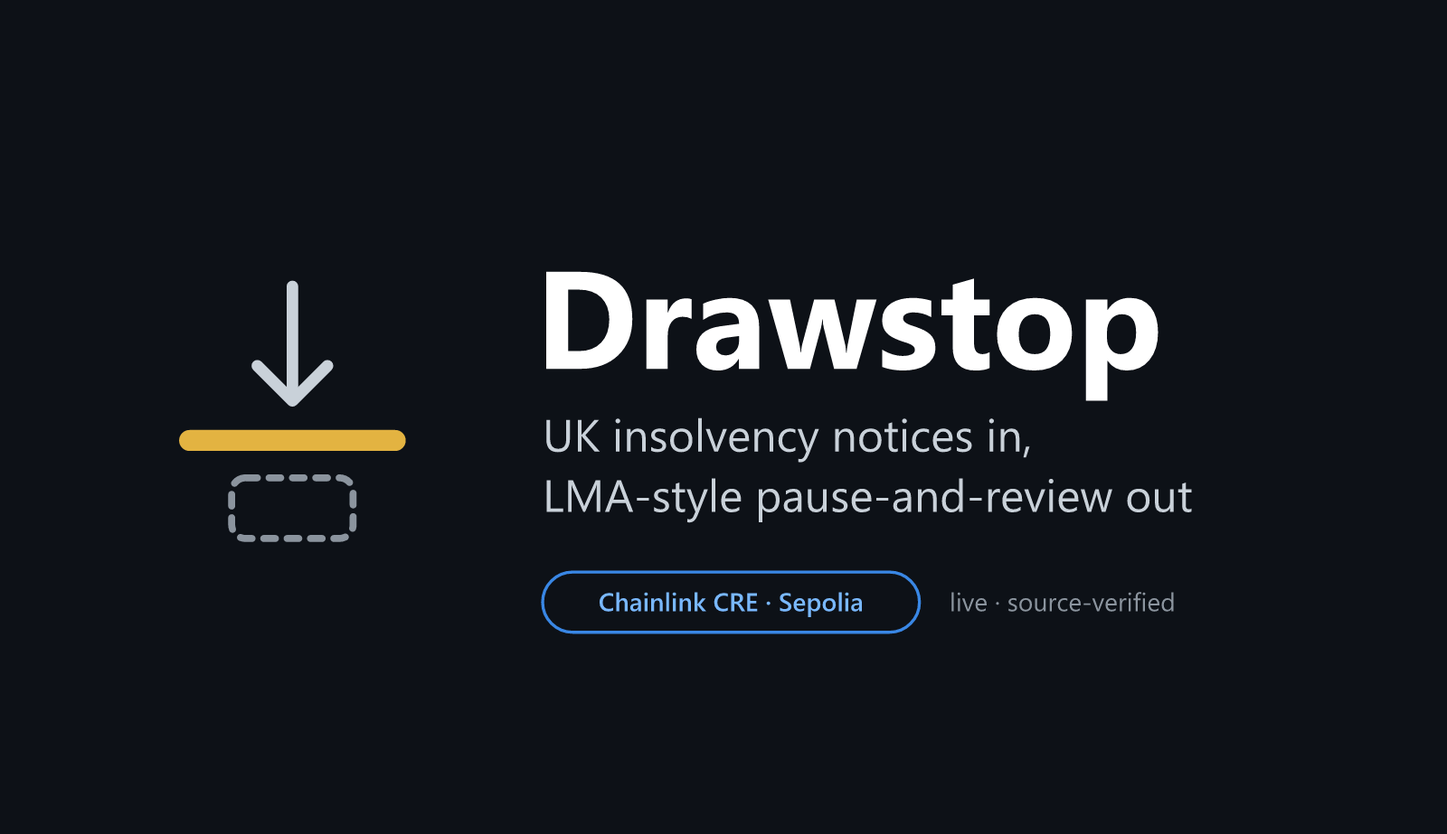
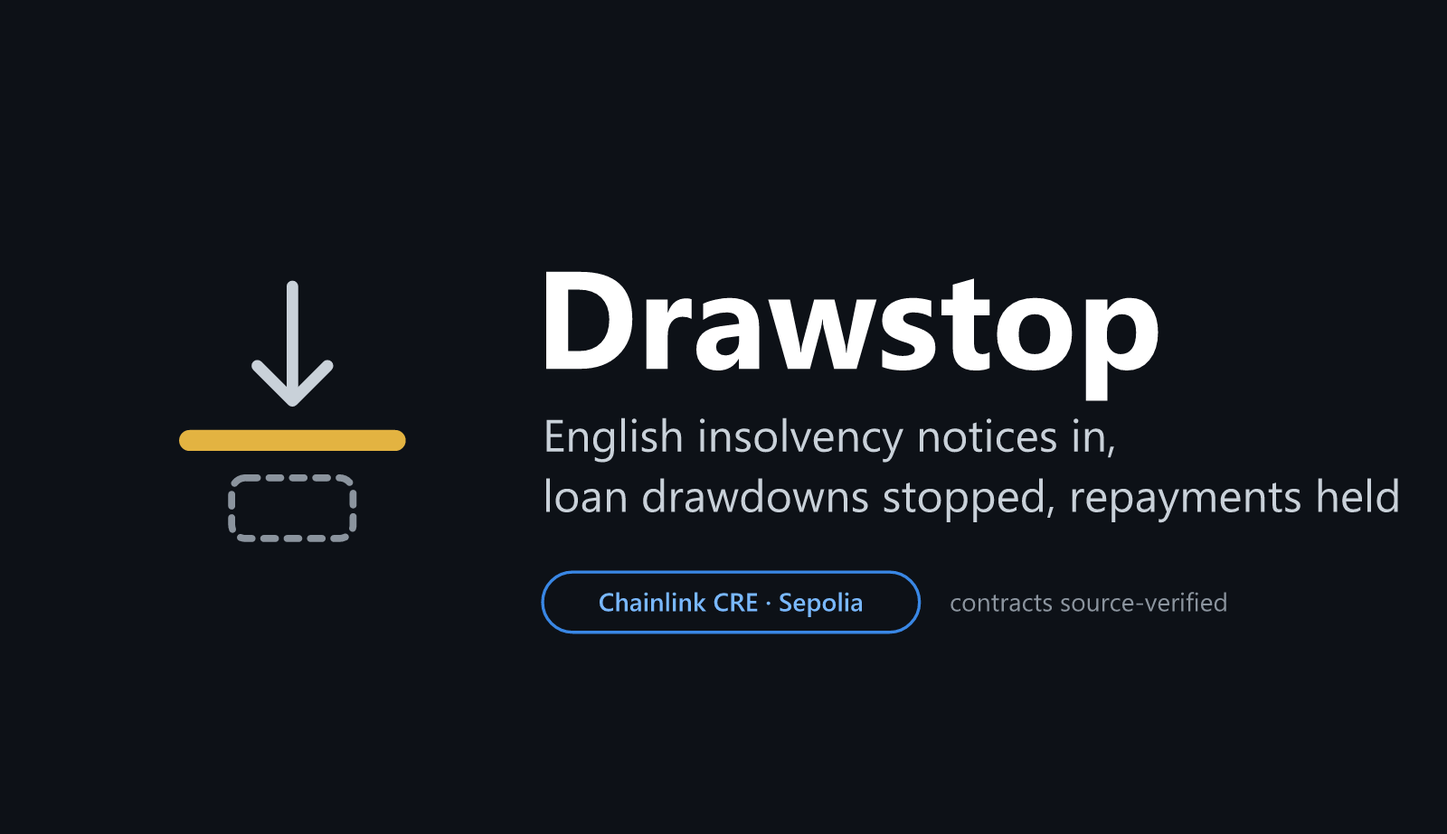
DoraHacks draft: apply two outside reviews (legal accuracy, honest demo labelling)
- s.127 makes dispositions void (not voidable), and only if an order follows
- England and Wales, not UK; 14-day carve-out leads, 30 days as borrower-friendly
- acceleration, not "default", is the human decision; bank freezing is practice
- 8,000 stated as "at least", with the untested trust-wording assumption
- demo labelled fictional borrower, local mirror, compressed time; live-source
  AMS attestation and a live-source simulate command linked
- CRE story first, four terms glossed, Arbiter defined, padding removed

Changed region(s): [[0.375, 0.5764, 0.9688, 0.6371], [0.375, 0.4854, 0.7812, 0.546], [0.6562, 0.6977, 0.8438, 0.7584]]

diff --git a/docs/dorahacks/figures.ts b/docs/dorahacks/figures.ts
@@ -67,10 +67,10 @@ const frame = (w: number, h: number) => `<rect x="1" y="1" width="${w - 2}" heig
 	const y = (c: number) => py + ph - (c / yMax) * ph
 	const bw = (BIN / maxDay) * pw
 	let body = frame(W, H)
-	body += text(40, 50, 'Most winding-up petitions become public after a typical carve-out has closed', { size: 22, weight: 600 })
+	body += text(40, 50, `${pct(14).toFixed(0)}% of winding-up petitions became public only after a 14-day carve-out had closed`, { size: 22, weight: 600 })
 	body += text(40, 78, `Days from presentation (s.127 exposure starts) to advertisement in The Gazette · ${n.toLocaleString('en')} petitions advertised Jul–Sep 2026`, { size: 14, fill: C.ink2 })
 	// shaded "carve-out already closed" zones
-	body += `<rect x="${x(30)}" y="${py}" width="${x(maxDay) - x(30)}" height="${ph}" fill="${C.redBg}" opacity="0.55"/>`
+	body += `<rect x="${x(14)}" y="${py}" width="${x(maxDay) - x(14)}" height="${ph}" fill="${C.redBg}" opacity="0.55"/>`
 	// grid + y axis
 	for (const t of [0, 100, 200, 300, 400, 500]) {
 		body += `<line x1="${px}" y1="${y(t)}" x2="${px + pw}" y2="${y(t)}" stroke="#eaeef2" stroke-width="1"/>`
@@ -97,12 +97,12 @@ const frame = (w: number, h: number) => `<rect x="1" y="1" width="${w - 2}" heig
 		s += text(x(47), yLabel + 18, sub, { size: 13, fill: C.ink2 })
 		return s
 	}
-	body += ref(14, `14-day carve-out: ${pct(14).toFixed(0)}%`, 'of petitions public only after it closed', C.amber, py + 24)
-	body += ref(30, `30-day carve-out: ${pct(30).toFixed(0)}%`, 'of petitions public only after it closed', C.red, py + 70)
+	body += ref(14, `14-day carve-out (LMA default): ${pct(14).toFixed(0)}%`, 'of petitions public only after it closed', C.amber, py + 24)
+	body += ref(30, `30-day (borrower-friendly): ${pct(30).toFixed(0)}%`, 'public only after it closed', C.red, py + 70)
 	body += `<line x1="${x(median)}" y1="${py + ph}" x2="${x(median)}" y2="${py + ph + 6}" stroke="${C.ink}" stroke-width="2"/>`
 	body += text(x(47), py + 128, `median ${median.toFixed(0)} days`, { size: 14, weight: 600, fill: C.ink })
 	body += text(x(47), py + 146, '(middle half 31–41 days)', { size: 13, fill: C.ink2 })
-	body += text(40, H - 24, 'Source: The Gazette linked data (OGL), Drawstop petition-lag study, research/petition-lag · carve-outs counted from presentation, as in LMA-style agreements', { size: 11.5, fill: C.muted })
+	body += text(40, H - 24, 'Source: The Gazette linked data (OGL), research/petition-lag · carve-outs counted from presentation · mostly England & Wales, some Scottish notices', { size: 11.5, fill: C.muted })
 	writeFileSync(join(OUT, 'gap.svg'), svg(W, H, `Histogram of ${n} petitions: median ${median.toFixed(0)} days from presentation to advertisement; ${pct(14).toFixed(0)}% after a 14-day and ${pct(30).toFixed(0)}% after a 30-day carve-out`, body))
 	console.log(`gap: n=${n} median=${median.toFixed(1)} >14=${pct(14).toFixed(1)} >30=${pct(30).toFixed(1)}`)
 }
@@ -115,12 +115,12 @@ const frame = (w: number, h: number) => `<rect x="1" y="1" width="${w - 2}" heig
 	let body = `<rect width="${W}" height="${H}" fill="${C.dark}"/>`
 	body += `<g transform="translate(70,150) scale(1.55)">${logo}</g>`
 	body += text(355, 245, 'Drawstop', { size: 92, weight: 700, fill: '#ffffff' })
-	body += text(360, 300, 'UK insolvency notices in,', { size: 30, fill: '#c9d1d9' })
-	body += text(360, 340, 'LMA-style pause-and-review out', { size: 30, fill: '#c9d1d9' })
+	body += text(360, 300, 'English insolvency notices in,', { size: 30, fill: '#c9d1d9' })
+	body += text(360, 340, 'loan drawdowns stopped, repayments held', { size: 30, fill: '#c9d1d9' })
 	body += `<rect x="360" y="380" width="250" height="40" rx="20" fill="none" stroke="#3987e5" stroke-width="2"/>`
 	body += text(485, 406, 'Chainlink CRE · Sepolia', { size: 17, weight: 600, fill: '#79b8ff', anchor: 'middle' })
-	body += text(630, 406, 'live · source-verified', { size: 17, fill: '#8b949e' })
-	writeFileSync(join(OUT, 'cover.svg'), svg(W, H, 'Drawstop: UK insolvency notices in, LMA-style pause-and-review out. Chainlink CRE on Sepolia.', body))
+	body += text(630, 406, 'contracts source-verified', { size: 17, fill: '#8b949e' })
+	writeFileSync(join(OUT, 'cover.svg'), svg(W, H, 'Drawstop: English insolvency notices in, loan drawdowns stopped and repayments held. Chainlink CRE on Sepolia.', body))
 }
 
 // ── 3. What the contract did on Sepolia: two acts ───────────────────────────────────────
@@ -136,7 +136,7 @@ const frame = (w: number, h: number) => `<rect x="1" y="1" width="${w - 2}" heig
 		{ step: '7', event: 'Borrower repays 3,000; the record still looks clean', status: 'NORMAL', tone: 'ok', money: '3,000 → lender' },
 		{ step: '8', event: 'Winding-up order; its petition was presented 12 days earlier', status: 'REVIEW_REQUIRED', tone: 'bad', money: '3,000 flagged, not stopped' },
 		{ step: '9', event: 'Borrower repays 2,000 after the order', status: 'REVIEW_REQUIRED', tone: 'bad', money: '2,000 held in suspense' },
-		{ step: '10', event: 'Arbiter nominates the Official Receiver; an early transfer reverts', status: 'REVIEW_REQUIRED', tone: 'bad', money: 'effective after 2 days' },
+		{ step: '10', event: 'Arbiter (neutral reviewer) names the Official Receiver; early transfer reverts', status: 'REVIEW_REQUIRED', tone: 'bad', money: 'effective after 2 days' },
 		{ step: '11', event: 'After the delay, suspense goes back to the estate (scheduled 19 Oct)', status: 'REVIEW_REQUIRED', tone: 'bad', money: '2,000 → Official Receiver' },
 	]
 	const W = 1000
@@ -144,7 +144,7 @@ const frame = (w: number, h: number) => `<rect x="1" y="1" width="${w - 2}" heig
 	const tone = { ok: [C.green, C.greenBg, '✓'], warn: [C.amber, C.amberBg, '!'], bad: [C.red, C.redBg, '■'] } as const
 	let body = frame(W, H)
 	body += text(40, 50, 'What the loan contract did on Sepolia', { size: 22, weight: 600 })
-	body += text(40, 76, 'Fictional borrower DM000001 · 30-day carve-out from presentation · every check is a Chainlink CRE workflow run', { size: 14, fill: C.ink2 })
+	body += text(40, 76, 'Fictional borrower DM000001 via a local Gazette mirror · compressed time · 30-day carve-out · every check a CRE run', { size: 14, fill: C.ink2 })
 	const cols = { step: 52, event: 110, status: 590, money: 770 }
 	let yy = 112
 	const header = (label: string) => {
@@ -170,8 +170,8 @@ const frame = (w: number, h: number) => `<rect x="1" y="1" width="${w - 2}" heig
 	for (const r of act2) body += row(r)
 	yy += 6
 	body += `<rect x="40" y="${yy}" width="${W - 80}" height="56" rx="8" fill="${C.amberBg}" stroke="#d4a72c" stroke-width="1.5"/>`
-	body += text(56, yy + 23, 's.127 statement rebuilt from on-chain events: 8,000 reached the lender after presentation, not 3,000.', { size: 14, weight: 600 })
-	body += text(56, yy + 43, "The 5,000 released after act 1's dismissal landed after act 2's petition was presented. A dismissal clears only its own petition.", { size: 13, fill: C.ink2 })
+	body += text(56, yy + 23, 's.127 statement rebuilt from on-chain events: at least 8,000 reached the lender after presentation, not 3,000.', { size: 14, weight: 600 })
+	body += text(56, yy + 43, "The 5,000 released after act 1's dismissal came after act 2's petition. Facts for a court; whether it is void is the court's call.", { size: 13, fill: C.ink2 })
 	writeFileSync(join(OUT, 'demo.svg'), svg(W, H, 'Loan contract on Sepolia: drawdown, petition drawstop, suspense, dismissal; then a winding-up order, flagged repayment, suspense returned to the Official Receiver', body))
 }
 
@@ -199,7 +199,7 @@ const frame = (w: number, h: number) => `<rect x="1" y="1" width="${w - 2}" heig
 		body += text(tx + 20, ty + 82, t.label, { size: 15, weight: 600 })
 		body += text(tx + 20, ty + 108, t.sub, { size: 12.5, fill: C.ink2 })
 	})
-	writeFileSync(join(OUT, 'proof.svg'), svg(W, H, 'Verification: 3 of 3 contracts source-verified, 128,000 fuzzing calls, 5 of 5 planted bugs caught, 2,868 notices analysed, 66 tests, 11-step scenario on Sepolia', body))
+	writeFileSync(join(OUT, 'proof.svg'), svg(W, H, 'Verification: 3 of 3 contracts source-verified, 128,000 fuzzing calls, 5 of 5 planted bugs caught, 2,868 notices analysed, 66 tests, 10 of 11 loan steps run on Sepolia', body))
 }
 
 // ── 5. Why it is buildable: today vs production ─────────────────────────────────────────

diff --git a/docs/dorahacks/BUIDL.md b/docs/dorahacks/BUIDL.md
@@ -2,7 +2,7 @@
 
 Working draft for the form at https://dorahacks.io/hackathon/legal-hack-2026 → **Submit Build**. Field limits were not visible without logging in; the short description is kept under 200 characters to be safe. Images: upload the PNGs in [`png/`](png) through the editor, or keep the GitHub links below (they render once pushed).
 
-Every number below traces to a file in the repository (see "Fact sources" at the end).
+Every number below traces to a file in the repository (see "Fact sources" at the end). The draft was read cold by two outside reviewers (a Chainlink engineer's view and an English insolvency lawyer's view) and revised; see "Review log" at the end.
 
 ## Form fields
 
@@ -11,8 +11,8 @@ Every number below traces to a file in the repository (see "Fact sources" at the
 | BUIDL name | **Drawstop** |
 | Logo | [`png/logo.png`](png/logo.png) (512 × 512) |
 | Cover / banner | [`png/cover.png`](png/cover.png) (1.73 : 1, legible at the 222 × 128 card size) |
-| Short description (card, 190 chars) | 4 in 5 UK winding-up petitions go public after a 30-day carve-out has closed. Drawstop (Chainlink CRE) makes tokenized loans react the moment they do: drawstop, s.127 suspense, human review. |
-| Alternative short description (176) | A Chainlink CRE workflow that turns UK Gazette insolvency notices into on-chain attestations, so a tokenized loan stops drawdowns and holds s.127 repayments before money moves. |
+| Short description (card, 178 chars) | Chainlink CRE workflow that reads English insolvency notices (Gazette, Companies House, GLEIF) and writes attestations, so a tokenized loan blocks drawdowns and holds repayments. |
+| Alternative short description (179) | 95% of winding-up petitions in Britain go public after a 14-day loan grace window. Drawstop (Chainlink CRE) makes a tokenized loan stop drawdowns and hold repayments when they do. |
 | Category | The closest of: RWA · Legal / RegTech · Infra (pick what the dropdown offers) |
 | Track | All BUIDLs |
 | Bounties | **Chainlink: Best workflow with CRE** (bounty 1362). Do not apply to RYO-CHAN (agent trading; not this project) |
@@ -30,47 +30,52 @@ Every number below traces to a file in the repository (see "Fact sources" at the
 
 ![Drawstop](https://raw.githubusercontent.com/ZhenYan1214/Drawstop/main/docs/dorahacks/png/cover.png)
 
-**Drawstop** is a Chainlink CRE workflow that turns UK statutory insolvency notices into on-chain attestations, so a tokenized loan to a UK company can **stop new drawdowns, hold at-risk repayments and call for human review before money moves**, not after a governance vote.
+**Drawstop** lets a tokenized loan to an English company react on its own when the borrower faces a winding-up petition. A **Chainlink CRE workflow** runs on a schedule and on every drawdown request, checks three public registries with per-source consensus, and writes a signed status to a registry on Sepolia. The loan contract reads that status: **new drawdowns revert, and repayments are held** because they may have to go back to the company's creditors. A source that cannot be checked is recorded as "could not be checked", never as "clean". Acting on a default stays a human decision.
 
-**In 30 seconds**
+**Why it matters:** of 1,594 winding-up petitions advertised in Q3 2026, **95% became public only after a standard 14-day loan grace window had closed** (median: 36 days after the petition was presented).
 
-- **The problem is measured, not anecdotal.** Across 1,594 winding-up petitions advertised in Q3 2026, the median petition became public **36 days** after it was presented, when payments to creditors had already become voidable (Insolvency Act 1986 s.127). **79%** surfaced only after a typical 30-day loan carve-out had closed.
-- **Off-chain, banks freeze the account when the petition is advertised. On-chain, nobody freezes a borrower's stablecoin wallet.** Drawstop puts the drawstop where the money moves.
-- **It runs today**: live sources (The Gazette, Companies House, GLEIF) through a CRE workflow, contracts deployed and source-verified on Sepolia, a two-act loan scenario executed on-chain (10 of 11 steps; the last waits out a deliberate 2-day delay).
-
-![Most petitions become public after a typical carve-out has closed](https://raw.githubusercontent.com/ZhenYan1214/Drawstop/main/docs/dorahacks/png/gap.png)
-
-## The problem
-
-Under English law a compulsory winding-up starts when the petition is **presented** (s.129(2)). If an order follows, payments after that date are void unless the court validates them, even to a payee in good faith (s.127; *Express Electrical v Beavis* [2016]). But a petition becomes public only when The Gazette advertises it, at least seven business days after service (IR 2016 r.7.10), and it is never filed at Companies House.
-
-LMA-style facility agreements already treat a pending petition as a Default that stops new drawdowns. The gap is not the contract terms. It is that nobody is told: the borrower self-reports, the facility agent may assume no Default, and token holders on one Centrifuge pool learned of a liquidation 53 days after the order.
-
-![A real public timeline](https://raw.githubusercontent.com/ZhenYan1214/Drawstop/main/docs/dorahacks/png/timeline.png)
+> **Four terms, in plain words.** *Drawstop*: the lender's right to refuse new advances. *Carve-out*: a grace window during which a petition is not yet an Event of Default. *s.127 suspense*: repayments held back, because if a winding-up order follows, payments made after the petition are void unless a court validates them. *Arbiter*: the neutral reviewer named in the loan agreement.
 
 ## What it does
 
 ![Architecture](https://raw.githubusercontent.com/ZhenYan1214/Drawstop/main/docs/dorahacks/png/architecture.png)
 
-- **CRE workflow** (TypeScript): a cron trigger monitors every registered company; an **EVM log trigger** runs a fresh check whenever a borrower requests a drawdown.
-- **Three sources, each with identical-value consensus**: The Gazette (primary: confirms each notice's company number, petition date and court case), Companies House, and GLEIF as a cross-check only. A failed or disputed source is recorded as **"could not be checked", never as "clean"**.
-- **`StatusRegistry`** stores a signed attestation: as of time T, in source S, event E was found, not found, or could not be checked. Absence is not resolution: a petition clears only with a matched dismissal.
-- **`LoanFacility`** mirrors the agreement: drawstop (cf. LMA cl. 4.2), petition carve-out counted from presentation (cf. cl. 23.7), **s.127 suspense** for repayments, append-only expiring reviews. Default is always a human decision.
+- **CRE workflow** (TypeScript): a **cron trigger** checks every registered company; an **EVM log trigger** runs a fresh check whenever a borrower requests a drawdown, so money never moves on stale evidence.
+- **Three sources, identical-value consensus per source**: The Gazette (primary: confirms each notice's company number, presentation date and court case), Companies House, and GLEIF (cross-check only). A failed or disputed source becomes **"could not be checked"**.
+- **`StatusRegistry`** stores signed attestations: as of time T, in source S, event E was found, not found, or could not be checked. Absence is not resolution: a petition stays live until a dismissal for the same court case is found, or the Arbiter records a review.
+- **`LoanFacility`** mirrors the agreement: drawstop, petition carve-out counted from presentation, s.127 suspense, append-only reviews that expire. It never accelerates or cancels on its own; that is the lender's call.
 
 ## Watch it work on Sepolia
 
 ![What the loan contract did on Sepolia](https://raw.githubusercontent.com/ZhenYan1214/Drawstop/main/docs/dorahacks/png/demo.png)
 
-Every check above is a `cre workflow simulate --broadcast` run against the deployed contracts; every transaction is linked in the [README](https://github.com/ZhenYan1214/Drawstop#demo-on-sepolia). Step 8 is the honest limit: a payment made between presentation and advertisement cannot be stopped, only surfaced. The yellow box is what a liquidator would use: [`tools/s127-report.ts`](https://github.com/ZhenYan1214/Drawstop/blob/main/tools/s127-report.ts) rebuilds every payment after presentation from on-chain events, and found that **8,000 reached the lender, not 3,000**, because a dismissal clears only its own petition.
+**What is real and what is staged.** The contracts, the CRE workflow and every transaction are real (Sepolia, [all linked in the README](https://github.com/ZhenYan1214/Drawstop#demo-on-sepolia)). The borrower is **fictional**: so that no real company is ever named as a borrower, its notices come from a local mirror shaped like The Gazette and Companies House, in **compressed time** (real petitions take weeks to reach a hearing). The same workflow on **live sources** recorded a real company, AMS FACILITIES (SW) LTD, as "winding-up order found" while Companies House still showed it "active" ([attestation, 14 Oct](https://sepolia.etherscan.io/tx/0x5bc10a0588bcc5f46f0f587be3280067a85e35d257b38022e3e8ef59c9d04cda), monitoring only, no loan).
+
+Step 8 is the honest limit: a payment made after presentation but before advertisement cannot be stopped, only surfaced. [`tools/s127-report.ts`](https://github.com/ZhenYan1214/Drawstop/blob/main/tools/s127-report.ts) rebuilds every payment after presentation from on-chain events, as a statement a liquidator or the lender's advisers can check. It found that **at least 8,000 reached the lender, not 3,000**, because a dismissal clears only its own petition. (8,000 assumes money in suspense stays the borrower's until released, as the draft rider's trust wording intends; that point is untested. Whether any payment is void, or should be validated, is for the court.)
+
+## The problem
+
+Under the law of England and Wales a compulsory winding-up is treated as starting when the petition is **presented** (Insolvency Act 1986 s.129(2)). If a winding-up order follows, any disposition of the company's property after that date, a loan repayment included, is **void unless the court validates it** (s.127), and the payee's good faith is no defence (*Express Electrical Distributors Ltd v Beavis* [2016] EWCA Civ 765). But a petition first appears in free open data only when The Gazette advertises it, at least seven business days after service (IR 2016 r.7.10). Until then it sits on the court file, and it is never filed at Companies House.
+
+![Most petitions become public after the carve-out has closed](https://raw.githubusercontent.com/ZhenYan1214/Drawstop/main/docs/dorahacks/png/gap.png)
+
+Two clocks start at presentation, and a lender can see neither:
+
+- **The default clock.** LMA-style agreements stop new drawdowns once a Default is continuing. They give a grace window only to a petition that is frivolous or vexatious and is dismissed within [14] days (borrowers negotiate longer). Unless told, the facility agent may assume no Default has occurred (*Torre Asset Funding v RBS* [2013] EWHC 2670 (Ch)), and the borrower is the one who must tell it.
+- **The s.127 clock.** Runs from presentation whatever the carve-out says. Every repayment after that date is at risk if an order follows.
+
+Off-chain, a bank that learns of a petition usually freezes the company's account (bank practice, not law). Nobody does that for a stablecoin wallet, so on-chain repayments keep flowing unless the loan contract itself stops them. Drawstop does that for one lender's facility; it freezes nothing else. Token holders in one Centrifuge pool learned of a borrower's liquidation 53 days after the order.
+
+![A real public timeline](https://raw.githubusercontent.com/ZhenYan1214/Drawstop/main/docs/dorahacks/png/timeline.png)
 
 ## Why this stands out
 
 | Chainlink criterion | Evidence |
 |---|---|
-| **Technical execution** | 42 unit tests, 5 fuzzing invariants over 128,000 random calls, 5 of 5 planted bugs caught, 24 workflow tests on real recorded responses; contracts Sourcify-verified |
-| **Blockchain application** | The contract that moves the money enforces the agreement: drawdowns revert, repayments are held, suspense can only go to the lender, the borrower, or an Official Receiver nominated two days in advance |
-| **Effective use of CRE** | Cron and EVM log triggers, HTTP with per-source identical consensus, secrets, EVM read and signed EVM write, receiver hardened for the production forwarder's 64-byte metadata |
-| **Originality** | No legal, insolvency or registry-event project among the 554 CRE entries of Chainlink's Convergence hackathon; built on a quarter of measured petition data, not an assumption |
+| **Technical execution** | 42 unit tests; fuzzing over 128,000 random calls; 5 of 5 deliberately planted bugs caught; workflow tests on real recorded responses; deployed bytecode matches the source (Sourcify) |
+| **Blockchain application** | The contract that moves the money enforces the agreement. Suspense can go only to the lender, the borrower, or an office-holder nominated two days in advance |
+| **Effective use of CRE** | Cron and EVM log triggers, HTTP with per-source identical consensus, secrets, EVM read and signed write; receiver hardened for the production forwarder's 64-byte metadata |
+| **Originality** | Insolvency law as a live on-chain control, built on a quarter of measured petition data rather than an assumption |
 
 ## Verify it yourself in two minutes
 
@@ -79,7 +84,13 @@ git clone https://github.com/ZhenYan1214/Drawstop && cd Drawstop/contracts/evm &
 cd ../../status-monitor && bun test sources.test.ts
 ```
 
-No keys or accounts needed. Deployed = source: [Sourcify, 3 of 3 match](https://repo.sourcify.dev/11155111/0x1AE232515B9C011152335e68314f12926e4d1245). Raw data and scripts for the petition study: [`research/petition-lag`](https://github.com/ZhenYan1214/Drawstop/tree/main/research/petition-lag).
+No keys or accounts needed. Deployed = source: [Sourcify, 3 of 3 match](https://repo.sourcify.dev/11155111/0x1AE232515B9C011152335e68314f12926e4d1245). To run the workflow against **live** sources (needs a CRE login and a free Companies House API key; nothing is written without `--broadcast`):
+
+```bash
+cre workflow simulate status-monitor --target staging-settings --non-interactive --trigger-index 0
+```
+
+Raw data and scripts for the petition study: [`research/petition-lag`](https://github.com/ZhenYan1214/Drawstop/tree/main/research/petition-lag).
 
 ![How it was checked](https://raw.githubusercontent.com/ZhenYan1214/Drawstop/main/docs/dorahacks/png/proof.png)
 
@@ -91,9 +102,10 @@ A daily [forward test](https://github.com/ZhenYan1214/Drawstop/tree/main/researc
 
 ## What we don't claim
 
-- Not faster than commercial vendors: some see petitions before The Gazette. Drawstop changes what happens after a petition is public.
-- "Not found" never rules out a petition presented but not yet advertised. That is a limit of free open data, not of the law: 99% of England-and-Wales petitions sit in courts whose filings the CE-File court search covers, a source that could be added.
-- The CRE simulator runs consensus on one node; Sepolia writes use the simulation forwarder. No user interviews yet. Not legal advice.
+- **Not faster than commercial vendors**, some of which see petitions before The Gazette. Drawstop changes what happens after a petition is public.
+- **"Not found" never rules out a petition** presented but not yet advertised, or withdrawn before advertisement. That is a limit of free open data, not of the law: 99% of England-and-Wales petitions sit in courts whose filings the CE-File court search covers, a source that could be added.
+- **The legal design is illustrative.** The draft facility terms ([`docs/agreement-rider.md`](https://github.com/ZhenYan1214/Drawstop/blob/main/docs/agreement-rider.md)) flag what needs specialist advice. Not legal advice.
+- **Test setup.** The CRE simulator runs consensus on one node, and Sepolia writes go through the simulation forwarder. No user interviews yet.
 
 ## What's next
 
@@ -107,13 +119,31 @@ A daily [forward test](https://github.com/ZhenYan1214/Drawstop/tree/main/researc
 
 | Claim | Source in the repository |
 |---|---|
-| 1,594 petitions, median 36 days, 79% / 95% | `research/petition-lag/results.json`, figure from `data/notices.csv` via `docs/dorahacks/figures.ts` |
+| 1,594 petitions, median 36 days, 95% / 79% | `research/petition-lag/results.json`, figure from `data/notices.csv` via `docs/dorahacks/figures.ts` |
 | AMS timeline | Gazette notices 5219886, 5229442; `status-monitor/fixtures/ch-company-11877818.json` |
+| AMS live-source attestation, 14 Oct | README "Earlier deployment (superseded)", tx `0x5bc10a05…4cda` |
 | 53 days (Centrifuge) | `docs/research/reports/英國破產事件監控需求驗證.md` |
-| 42 / 24 tests, 5 invariants, 128,000 calls, 5 of 5 mutants | `forge test` output; README "How It Was Checked" |
+| 42 tests, 5 invariants, 128,000 calls, 5 of 5 mutants | `forge test` output; README "How It Was Checked" |
 | Sepolia steps and 8,000 vs 3,000 | `demo/sepolia-run.log`, `demo/s127-statement-DM000001.md` |
+| Trust wording in suspense, untested | `docs/agreement-rider.md` clause 4.1 and its notes |
 | Sourcify 3 of 3 | Sourcify API, 2026-10-17 |
-| 554 CRE entries, no legal/registry project | `docs/research/notes/Chainlink CRE 選題研究/chainlink_adoption_gaps.md` |
 | 99% of E&W petitions in CE-File courts | `research/petition-lag/courts.ts`, `holdout/courts-oct.csv` |
+
+## Review log
+
+Two cold reads on 2026-10-17, each seeing only this page and the images, with up to three spot-checks in the repository.
+
+| Reviewer view | Found | Changed |
+|---|---|---|
+| Chainlink engineer | "Live sources" read as if the loan demo used them, but it uses a local mirror | Demo labelled as fictional borrower, local mirror, compressed time; live-source attestation linked; live-source command added |
+| | Too much legal jargon before any CRE | CRE paragraph first; four terms glossed; legal detail moved under "The problem" |
+| | "Arbiter" undefined; padding (554 entries, repeated bullets) | Arbiter defined; padding removed |
+| Insolvency lawyer | "voidable" (s.127 makes dispositions void, only if an order follows) | Corrected |
+| | "UK" (s.127, s.129 and r.7.10 are England and Wales law) | "English" / "England and Wales" throughout, including cover and figures |
+| | "Default is a human decision" (an Event of Default arises as a fact; acting on it is the decision) | Reworded; architecture figure says "accelerate" |
+| | Carve-out without "frivolous or vexatious"; 30 days called typical (LMA bracket is [14]) | 14 days leads; 30 days shown as borrower-friendly |
+| | "Public only via the Gazette"; "banks freeze" as if law | "First appears in free open data"; freezing marked as bank practice |
+| | 8,000 stated as fact | "At least 8,000", with the trust-wording assumption and "for the court" |
+| | Demo timeline procedurally impossible | Labelled "compressed time" |
 
 Update before submitting: step 11 (scheduled 19 Oct) in `demo.png` and the demo table; the October hold-out result if it is in; the video link.

diff --git a/demo/video-script.md b/demo/video-script.md
@@ -28,10 +28,10 @@
 
 | # | 畫面 | 英文旁白 | 中文說明與來源 |
 |---|---|---|---|
-| 1 | 黑底白字，一行一行出現：<br>**1,594** winding-up petitions · Q3 2026<br>median **36 days** from presentation to public notice<br>**79%** public only after a 30-day carve-out had closed<br>→ 標題卡 **Drawstop**，副標 *UK insolvency notices in, LMA-style pause-and-review out*，小字 *Chainlink CRE · Sepolia · testnet · not legal advice* | Last quarter, four in five winding-up petitions advertised in The Gazette became public only after a thirty-day loan carve-out had already closed. This is Drawstop: a Chainlink CRE workflow that lets a tokenized loan react to statutory insolvency notices before money moves, not after a governance vote. | 倒金字塔：先丟實測數字再報名字。來源：`research/petition-lag/results.json`（1,594、36、79.4%）。 |
+| 1 | 黑底白字，一行一行出現：<br>**1,594** winding-up petitions · Q3 2026<br>median **36 days** from presentation to public notice<br>**95%** public only after a 14-day carve-out had closed<br>→ 標題卡 **Drawstop**，副標 *English insolvency notices in, loan drawdowns stopped, repayments held*，小字 *Chainlink CRE · Sepolia · testnet · not legal advice* | Last quarter, ninety-five percent of winding-up petitions advertised in The Gazette became public only after a standard fourteen-day loan grace window had already closed. This is Drawstop: a Chainlink CRE workflow that lets a tokenized loan react to statutory insolvency notices before money moves, not after a governance vote. | 倒金字塔：先丟實測數字再報名字。來源：`research/petition-lag/results.json`（1,594、36、95.2%）。 |
 | 2 | 三張條文卡：① IA 1986 s.129(2) ② s.127 ＋ *Express Electrical v Beavis* [2016] ③ IR 2016 r.7.10；底下一行「Petitions are never filed at Companies House」 | Under English law, a winding-up starts when the petition is presented. If an order follows, payments the company made after that date are void unless the court validates them, even to a payee in good faith. But the petition only becomes public when The Gazette advertises it, and it never appears at Companies House. | 法律核心：風險起點和公開時點錯開。條文編號留在畫面上給法律背景評審看。 |
 | 3 | AMS 時間軸（README 的 `timeline.svg`）：8/11 提出 → 9/29 刊登（**49 days**）→ 10/7 命令 → Companies House 仍 `active`<br>疊 Gazette 公告 5219886 截圖、`fixtures/ch-company-11877818.json` 的 `"active"` | A real case: a petition against AMS Facilities was presented on the eleventh of August and advertised forty-nine days later. A week after the winding-up order, Companies House still said active. | 只講公開紀錄上的日期，不評論這家公司。來源：Gazette 5219886／5229442、fixture（10/14 錄的真實回應）。 |
-| 4 | 左：LMA 條款示意（cl. 4.2、23.7）<br>中：銀行帳戶上鎖 vs. 穩定幣錢包沒鎖<br>右：Centrifuge 論壇截圖，標 **53 days after the order** | LMA-style loan agreements already stop drawdowns on a pending petition. Off-chain, banks usually freeze the company's account once the petition is advertised. On-chain, nobody freezes a borrower's stablecoin wallet, and one Centrifuge pool heard about a liquidation fifty-three days after the order. | 「為什麼一定要寫在合約裡」最強的論點。小字附來源：Gazette 說明頁（銀行凍結）、Centrifuge 論壇連結。 |
+| 4 | 左：LMA 條款示意（cl. 4.2、23.7）<br>中：銀行帳戶上鎖 vs. 穩定幣錢包沒鎖<br>右：Centrifuge 論壇截圖，標 **53 days after the order** | LMA-style loan agreements already stop drawdowns on a pending petition. Off-chain, a bank that learns of a petition usually freezes the company's account. On-chain, nobody freezes a borrower's stablecoin wallet, and one Centrifuge pool heard about a liquidation fifty-three days after the order. | 「為什麼一定要寫在合約裡」最強的論點。小字附來源：Gazette 說明頁（銀行凍結）、Centrifuge 論壇連結。 |
 | 5 | 架構圖（`architecture.svg`），角落列 CRE 能力：cron trigger · EVM log trigger · HTTP + identical consensus · secrets · EVM read · EVM write | Drawstop reads the same public notices, so it is not earlier than anyone. It changes what happens next. For each company, the workflow checks The Gazette, confirming every notice's company number, petition date and court case, plus Companies House, and GLEIF as a cross-check. | 紅隊：先承認不比別人早，評審就不會拿 49 天反問。能力清單給 Chainlink 評審看「effective use of CRE」。 |
 | 6 | 終端機：preview 模式跑真實來源；放大 AMS `eventBits=0b1000` 與 Tesco `eventBits=0b0` | Each source goes through identical-value consensus. A failed source is recorded as could not be checked, never as clean. On live data it finds the AMS winding-up order, and a clean control. | 三態證明；回答「oracle 出錯怎麼辦」。 |
 | 7 | 橫幅 **DM000001: FICTIONAL BORROWER**；`run-demo.sh` 第 1、2 步：`NORMAL`、`executeDrawdown(0): released` | Now a loan to a fictional borrower, with a thirty-day carve-out from presentation. A drawdown request triggers a fresh check through an EVM log trigger, and the funds are released. | 虛構公司要清楚標示（絕不把真實公司綁在測試錢包）。 |

diff --git a/HANDOFF.md b/HANDOFF.md
@@ -430,6 +430,7 @@ Drawstop/
 - **s.127 清算人報告**（`tools/s127-report.ts`，只讀鏈上事件，任何人可重跑）：**抓到一個設計盲點**：第一幕駁回後從暫收釋出給放款方的 5,000，時間在第二件聲請（已提出未刊登）之後 → 也是聲請日後送到放款方的錢。報告總數 8,000（不是合約 view 函式的 3,000）。合約 `repaidSincePetitionPresented()` 只算直接轉手，已在註解標明（bytecode 不變）；合約只剩 1.6% gas 餘裕，不改合約。重點：**一件聲請被駁回，不代表之後的付款就安全**。
 - **前向測試（Altitude：與現行做法並行）**：`research/forward/daily.ts` + `.github/workflows/forward-test.yml`（每天記錄新刊登聲請與這些公司在 Companies House 的狀態，commit 時間戳公開）。**尚未推送、尚未啟用**：需要使用者同意推送，並在 GitHub repo 設定 secret `CH_API_KEY`。
 - 修了兩個工程問題：`.gitattributes` 強制 `*.sh` 用 LF（這台電腦 `core.autocrlf=true` 會把腳本變 CRLF，bash 會壞）；收集腳本遵守 `Retry-After`，並在連續兩次長時間封鎖時停止（circuit breaker）。
+- **DoraHacks 表單草稿**（`docs/dorahacks/BUIDL.md` + `png/` 7 張圖）：交給兩位外部裁判（Chainlink 工程師視角、英國破產律師視角）冷讀後修改，修改紀錄在 BUIDL.md 最後的「Review log」。法律用語定稿，**之後所有文字都照這個寫**：s.127 是 **void**（不是 voidable），且只在清算命令做成後才適用；範圍說 **England and Wales**／English，不說 UK；寬限期是「frivolous or vexatious 且 [14] 天內駁回」，**以 14 天（95%）為主**，30 天只當借款方友善的情況；「違約」本身是事實，人做的決定是 **acceleration**（加速到期）；銀行凍結是**實務**，不是法律；聲請在刊登前**在法院檔案裡**，只是不在免費開放資料；8,000 要寫「**at least**」，並註明它假設暫收款依 rider 的 trust 條款仍屬借款方（未經測試）；demo 要標明「虛構借款方、本機鏡像、壓縮時間」。README 標語、影片腳本第 1 幕也同步改了。
 
 ### 16.2 進行中／卡住
 - **10 月樣本外驗證**：預測已在 10/17 11:44 commit（`27fe81d`，`research/petition-lag/holdout/PREDICTIONS.md`），尚未下載逐則資料。Gazette 回 `Retry-After: 900` 且連續封鎖（推測同一 IP 今天早上已抓過約 2,900 則、碰到每日額度）。**明天先送一個請求測試**，通了再跑：`GAZETTE_GAP_MS=3000 bun research/petition-lag/fetch.ts <cache> research/petition-lag/holdout/notices-oct.csv 2450:2026-10-01:2026-10-16 2451:2026-10-01:2026-10-16`，再用 analyze 的邏輯比對預測，結果不論成敗都照實寫。

diff --git a/README.md b/README.md
@@ -4,8 +4,8 @@
 
 # Drawstop
 
-**UK insolvency notices in. LMA-style pause-and-review out.**<br>
-A Chainlink CRE workflow that lets a tokenized loan to a UK company stop new drawdowns,<br>
+**English insolvency notices in. Loan drawdowns stopped, repayments held.**<br>
+A Chainlink CRE workflow that lets a tokenized loan to an English company stop new drawdowns,<br>
 hold at-risk repayments and call for human review when a statutory insolvency notice appears.
 
 [![Chainlink CRE](https://img.shields.io/badge/Chainlink-CRE%20v1.38-375BD2?logo=chainlink&logoColor=white)](https://docs.chain.link/cre)
@@ -31,7 +31,7 @@ The risk starts on one date. The world finds out weeks later:
 |---|---|
 | A petition becomes public only when advertised in The Gazette, at least seven business days after service ([IR 2016 r.7.10](https://www.legislation.gov.uk/uksi/2016/1024/rule/7.10)). It is never filed at Companies House. | A lender watching the company register sees nothing while s.127 exposure is already running. |
 | LMA-style agreements treat a pending petition as a Default that blocks drawdowns, but the facility agent may assume no Default has occurred unless it is told ([*Torre Asset Funding v RBS* [2013] EWHC 2670 (Ch)](https://caselaw.nationalarchives.gov.uk/ewhc/ch/2013/2670)). | The only reliable notice channel is the borrower itself. |
-| Off-chain, banks usually freeze a company's accounts once a petition is advertised ([The Gazette](https://www.thegazette.co.uk/all-notices/content/101087)). | Nobody freezes a borrower's stablecoin wallet. On-chain repayments keep flowing to token holders unless the contract itself stops them. |
+| Off-chain, a bank that learns of a petition usually freezes the company's account (bank practice, not law) ([The Gazette](https://www.thegazette.co.uk/all-notices/content/101087)). | Nobody freezes a borrower's stablecoin wallet. On-chain repayments keep flowing to token holders unless the contract itself stops them. |
 | On-chain credit reacts by governance vote. | Centrifuge token holders learned of a borrower's court-ordered liquidation [53 days after the order](https://gov.centrifuge.io/t/consolfreight-cf4-pool-update-august-2023-important-notice/5674). |
 
 > **The ask is simple:** once an insolvency notice is public, the contract that moves the money should know it before the next drawdown, and act the way the loan agreement already says.
